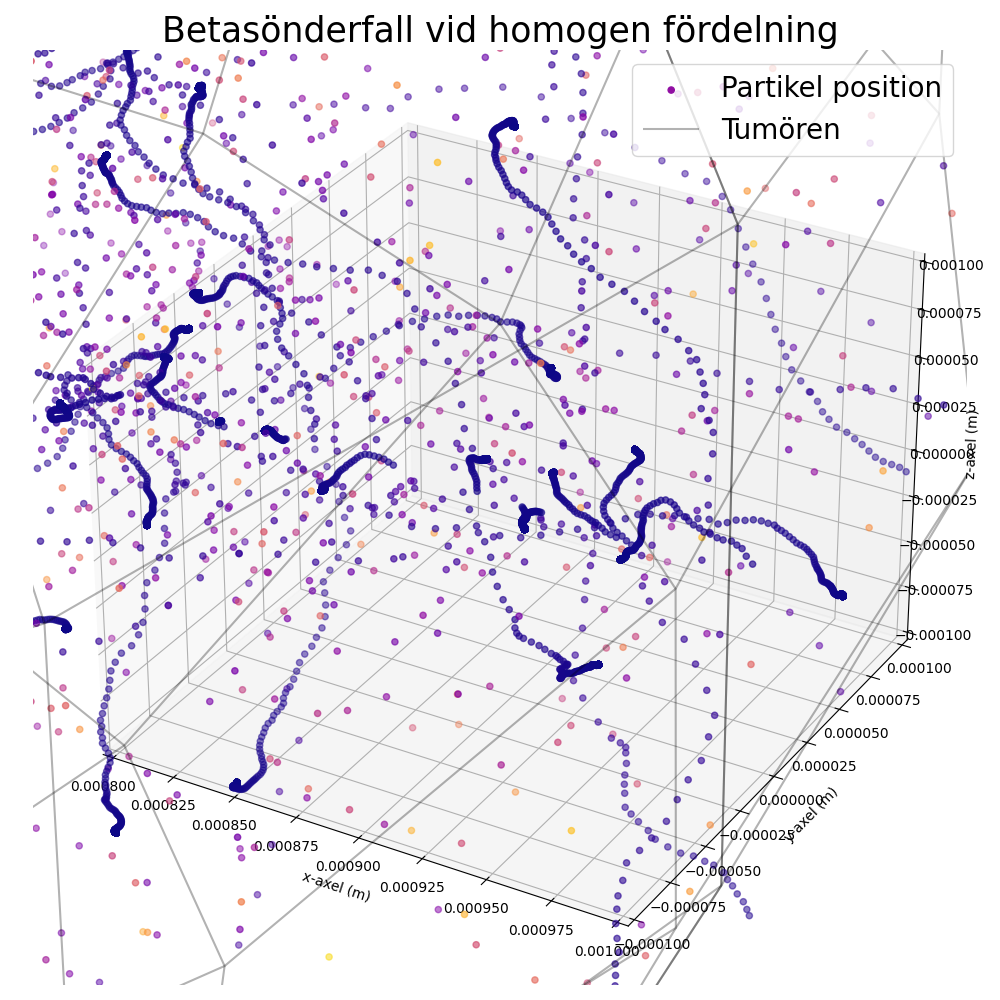
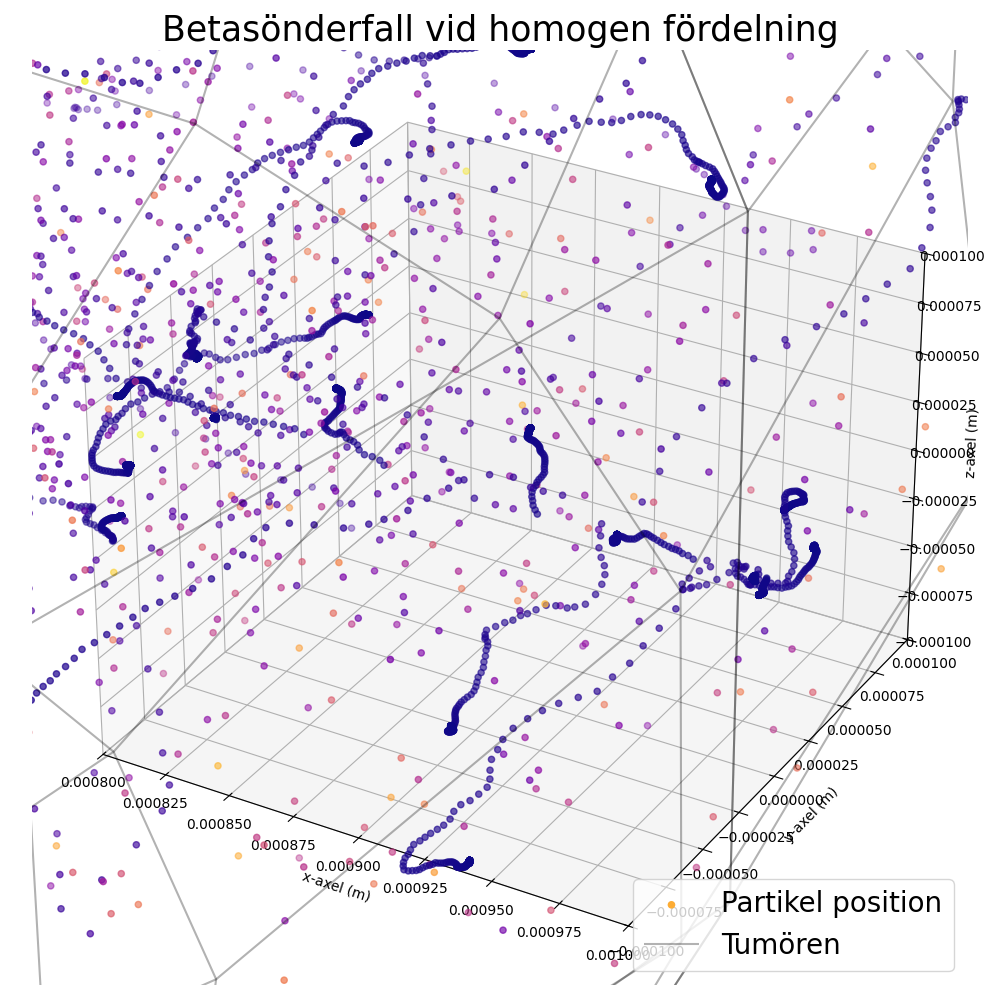
.

diff --git a/Martin/upg2_elektron_simulering.py b/Martin/upg2_elektron_simulering.py
@@ -90,6 +90,7 @@ def run_MC_elektron(iterationer, rho_medium, radie_partikel, stopping_power_data
     #   Visualisera resultat i figur.
     #   -----------------------------------
 
+    """
     # Figur normal
     fig = plt.figure(figsize=(10, 10))
     ax = fig.add_subplot(projection='3d')
@@ -147,6 +148,7 @@ def run_MC_elektron(iterationer, rho_medium, radie_partikel, stopping_power_data
     plt.tight_layout()
     plt.savefig(fig_title)
     plt.show()
+    """
 
     return energideponering_summa
 
@@ -176,7 +178,7 @@ if __name__ == "__main__":
     #   -----------------------------------
     #   Köra simuleringskoden.
     #   -----------------------------------
-    iterationer = 10 ** 3
+    iterationer = 10 ** 4
     dummy_iterationer = 3 * 10**2
 
     energiförlust_faktor = 0.97  # Energi efter en kollision = 96% av föregående energin.

diff --git a/Martin/upg2_fixad_laddad_partikel_väg_elektroner.py b/Martin/upg2_fixad_laddad_partikel_väg_elektroner.py
@@ -75,7 +75,7 @@ def laddad_partikel_väg_elektron(energi_start, position_start, phi_start, theta
         #   och
         #   energin är över en tröskelenergi.
         #   -----------------------------------
-        while np.sqrt(np.dot(position_vektor, position_vektor)) < radie_sfär and energi > energi_start * 10 ** (-6):
+        while np.sqrt(np.dot(position_vektor, position_vektor)) < radie_sfär and energi > 50:
             print('')
 
             # Steglängd tas så att en viss energiförlust sker.

diff --git a/Martin/upg1_visualisera_resultat.py b/Martin/upg1_visualisera_resultat.py
@@ -191,7 +191,7 @@ if __name__ == "__main__":
     """
 
 resultat_matris = np.load('resultat_l7_slicad.npy')
-skapa_figurer(resultat_matris)
-
-
+# skapa_figurer(resultat_matris)
+#
+#
 print('count:', np.count_nonzero(resultat_matris))
